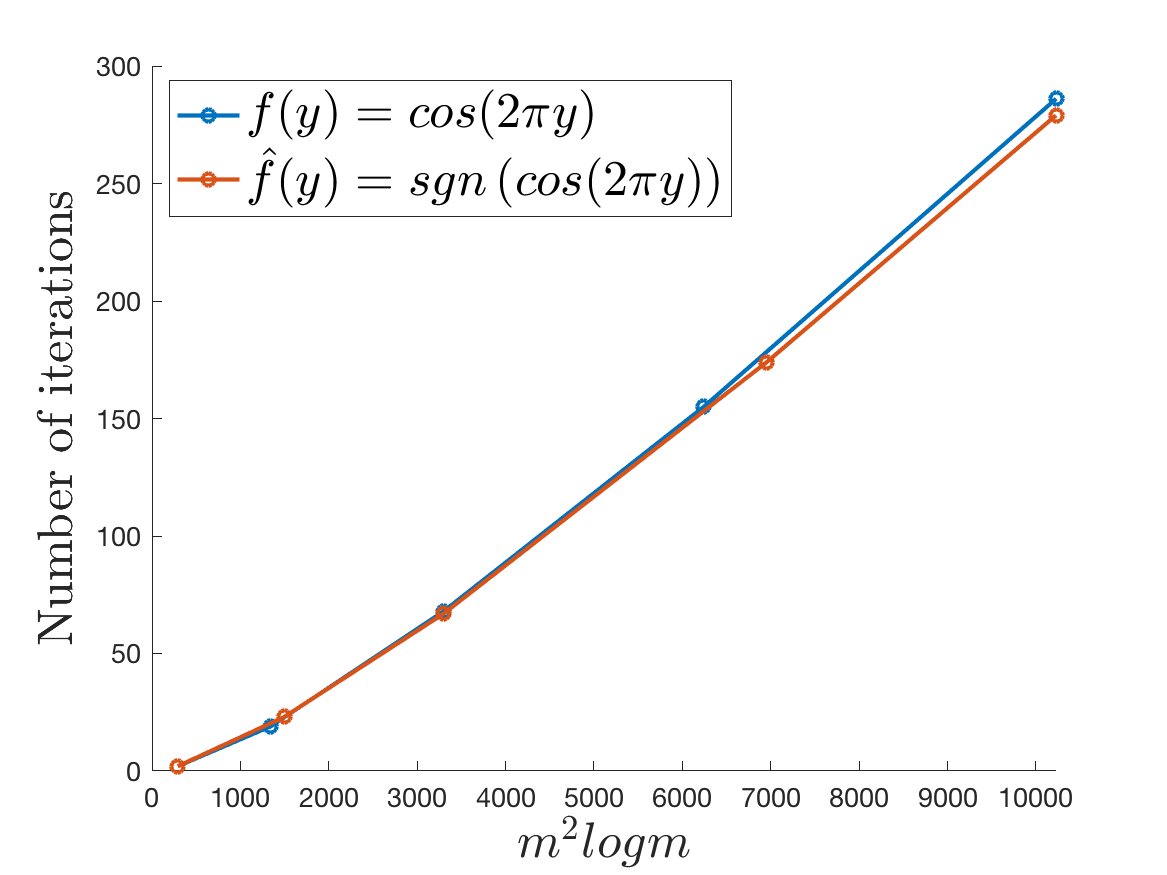
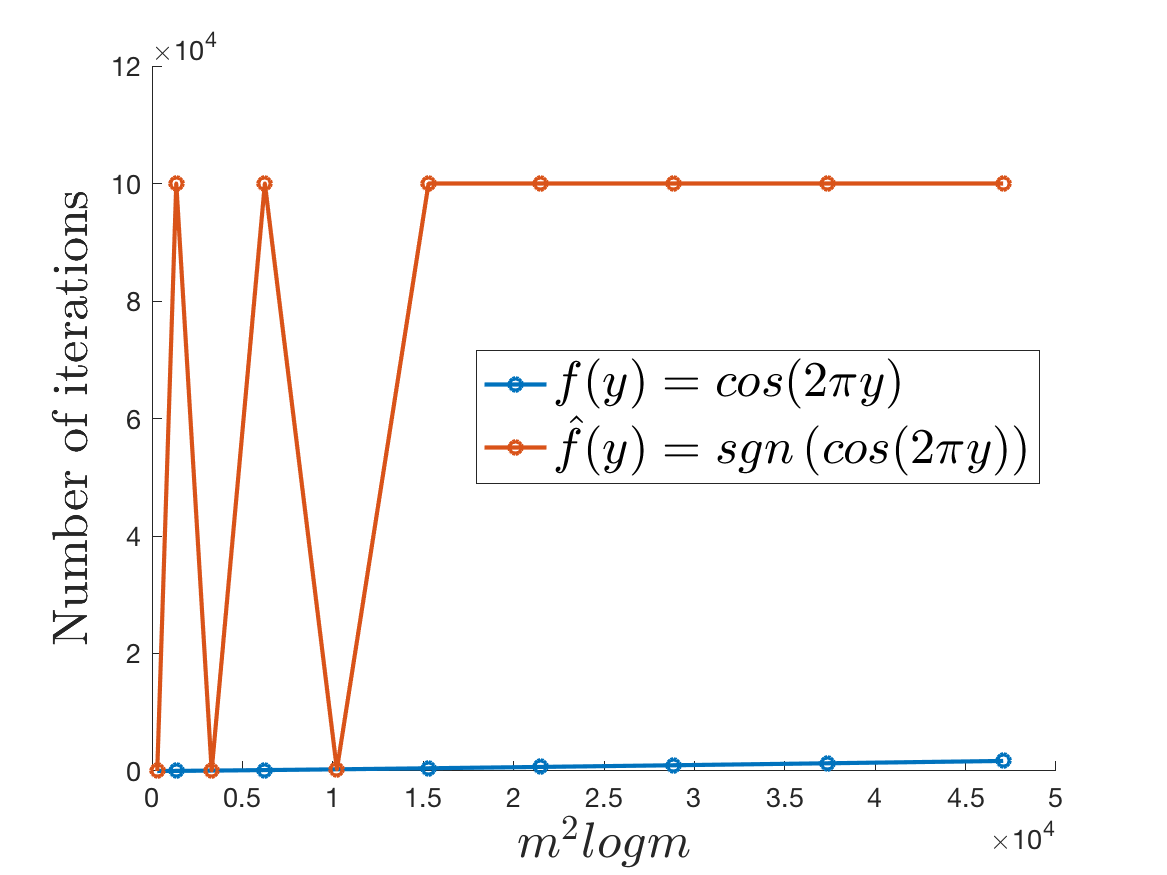
Update 5E

diff --git a/HW1/HW1_5E.m b/HW1/HW1_5E.m
@@ -7,7 +7,7 @@ c = 0; d = 1;
 
 % M_list and noiter_list
 
-M_list = [10, 21, 30, 42, 50];
+M_list = 10:10:100;
 M_list = M_list+1;
 noiter_list = zeros(size(M_list));
 
@@ -55,6 +55,9 @@ for loop = 1:size(M_list,2)
         u(M+2,2:M-1) = u(M,2:M-1);
         current_error = u-exact_u;
         error = norm(u-exact_u);
+        if noiter > 100000
+            break
+        end
     end
     noiter_list(loop) = noiter;
 end
@@ -78,11 +81,11 @@ hold off
 ax = gca;
 ax.YAxis.FontSize = 13;
 ax.XAxis.FontSize = 13;
-xlim([0,51.^2.*log(51)]);
+
 xlabel('$m^2logm$','Interpreter','latex', 'FontSize', 24)
 ylabel('Number of iterations','Interpreter','latex', 'FontSize', 24)
 lgd = legend("$f(y) = cos(2\pi y)$", "$\hat{f}(y) = sgn\left(cos(2\pi y)\right)$",'FontSize', 24,...
-       'Interpreter','latex','Location','northwest');
+       'Interpreter','latex','Location','east');
    
 saveas(gcf,'HW1_5E.png')
 
